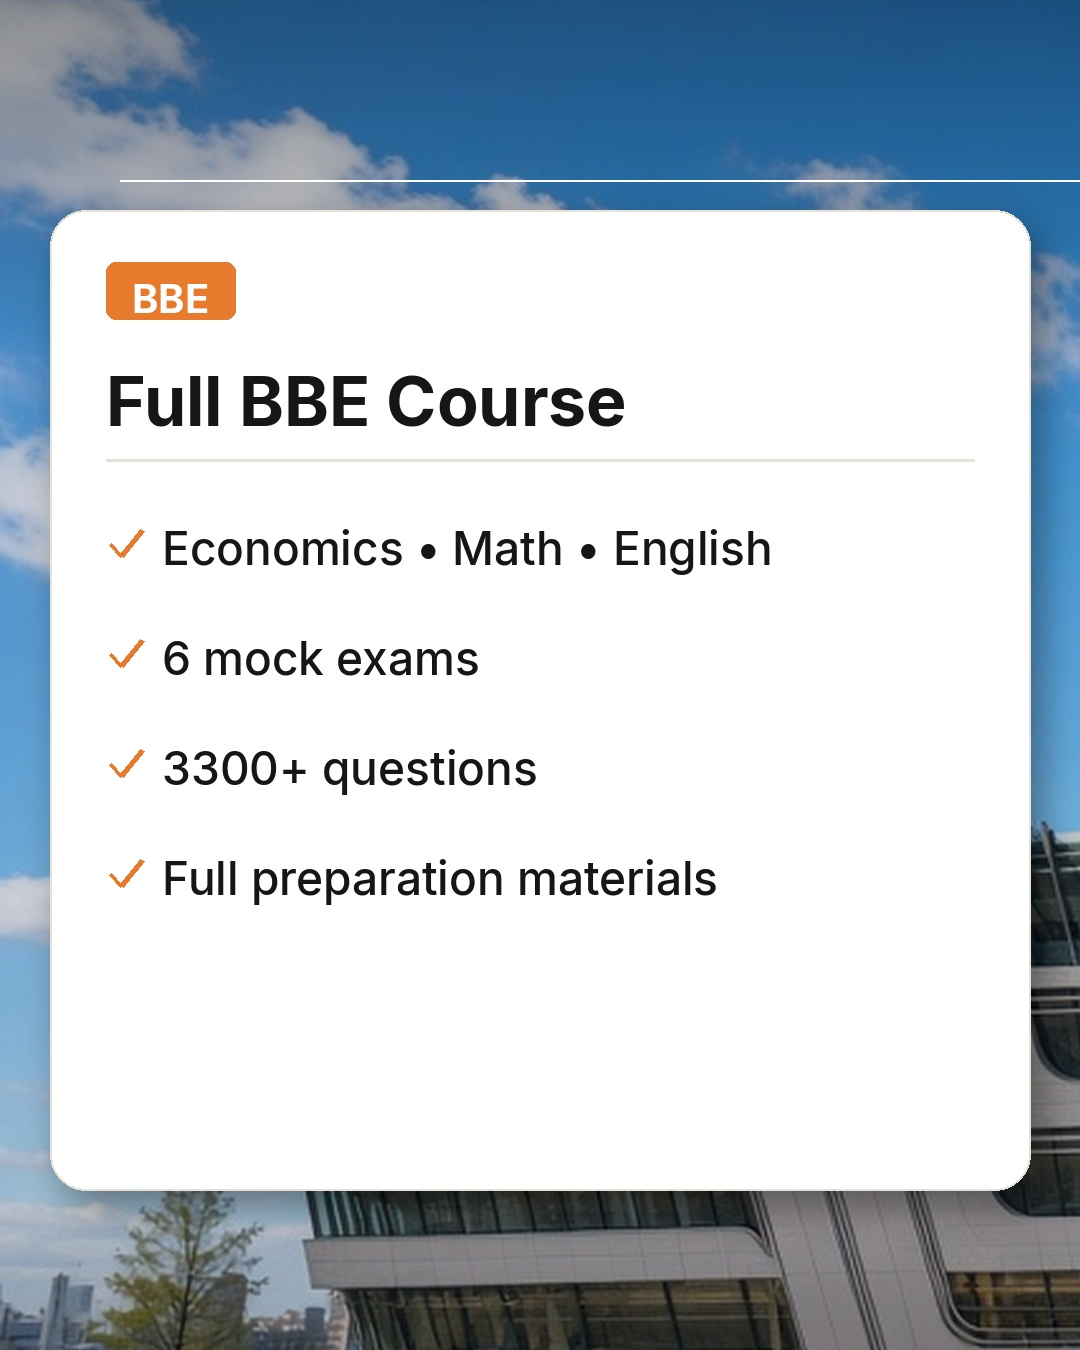
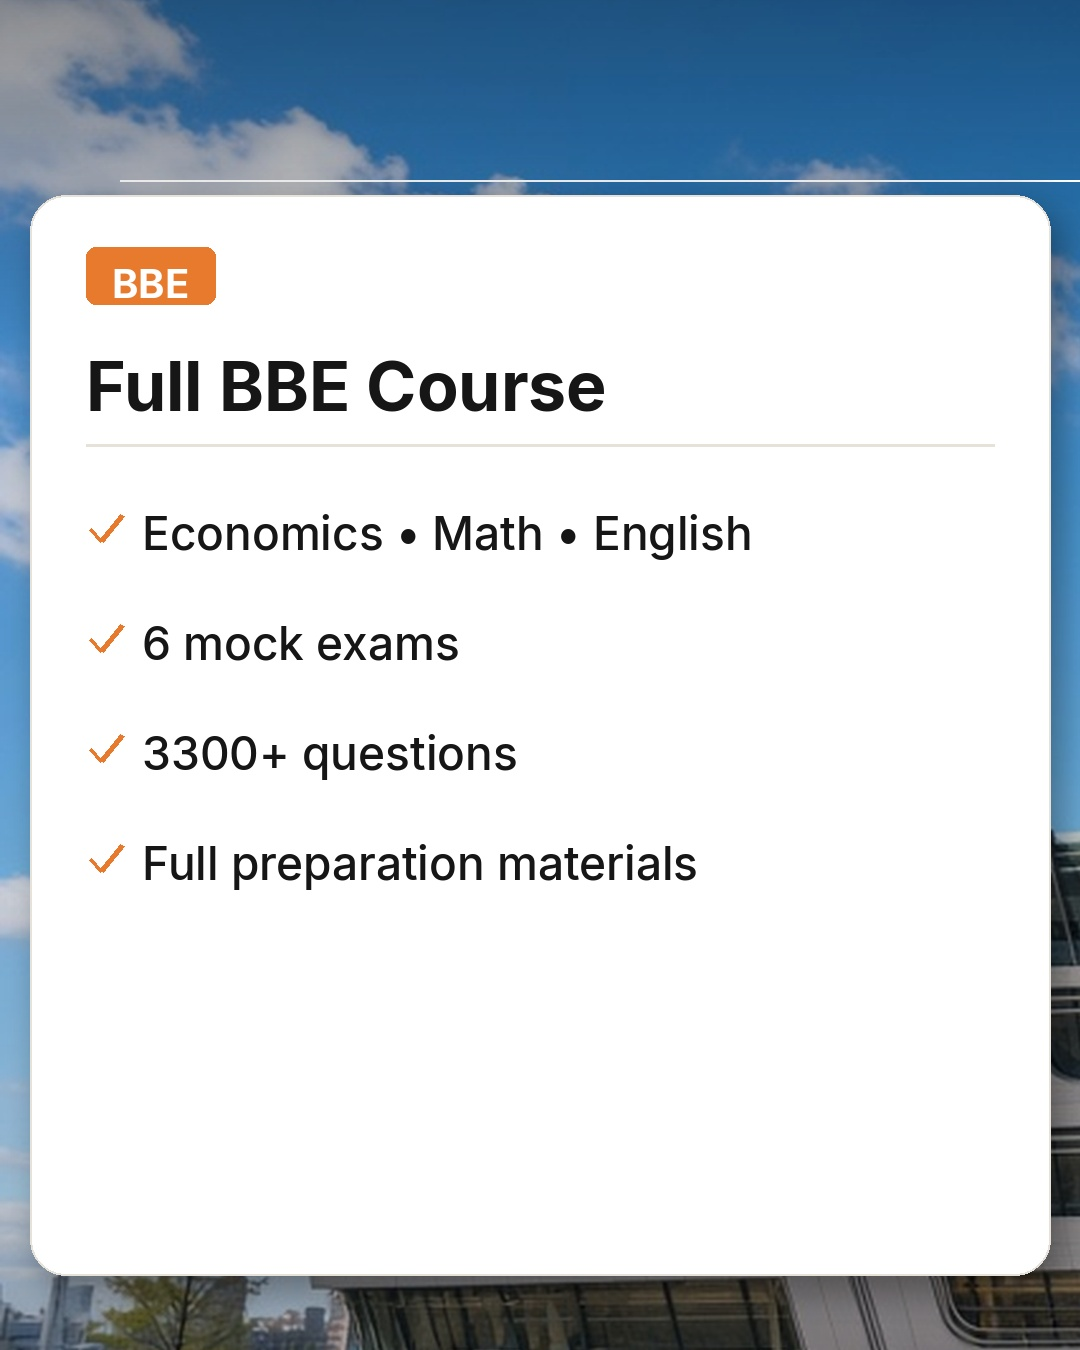
Make course cards fill nearly the full Instagram tile.

diff --git a/scripts/make_instagram_pinned_banner.py b/scripts/make_instagram_pinned_banner.py
@@ -217,29 +217,31 @@ def draw_card(
     canvas.alpha_composite(layer)
     draw = ImageDraw.Draw(canvas)
 
-    pad = 56
-    tag_f = font("Inter-Bold.ttf", 40)
+    pad = 64
+    tag_f = font("Inter-Bold.ttf", 42)
     tw, th = text_size(draw, tag, tag_f)
-    pad_x, pad_y = 26, 14
+    pad_x, pad_y = 28, 14
     tag_w, tag_h = tw + pad_x * 2, th + pad_y * 2
-    tag_x, tag_y = left + pad, top + 52
+    tag_x, tag_y = left + pad, top + 64
     draw.rounded_rectangle([tag_x, tag_y, tag_x + tag_w, tag_y + tag_h], radius=10, fill=accent)
     draw.text((tag_x + pad_x, tag_y + pad_y - 2), tag, font=tag_f, fill=WHITE)
 
-    title_f = font("Inter-Bold.ttf", 68)
-    draw.text((left + pad, top + 150), title, font=title_f, fill=title_c)
+    title_f = font("Inter-Bold.ttf", 72)
+    draw.text((left + pad, top + 170), title, font=title_f, fill=title_c)
     draw.line(
-        [(left + pad, top + 250), (left + width - pad, top + 250)],
+        [(left + pad, top + 280), (left + width - pad, top + 280)],
         fill=border_c,
         width=3,
     )
 
-    bullet_f = font("Inter-Medium.ttf", 46)
-    y = top + 310
+    bullet_f = font("Inter-Medium.ttf", 48)
+    # Spread bullets through the tall card so the box feels full
+    y = top + 350
+    row = 125
     for bullet in bullets:
-        draw_check(draw, left + pad + 4, y + 10, accent)
-        draw.text((left + pad + 56, y), bullet, font=bullet_f, fill=body_c)
-        y += 110
+        draw_check(draw, left + pad + 4, y + 12, accent)
+        draw.text((left + pad + 60, y), bullet, font=bullet_f, fill=body_c)
+        y += row
 
 
 def build_banner(bg: Image.Image, *, glass_cards: bool = False) -> Image.Image:
@@ -261,26 +263,26 @@ def build_banner(bg: Image.Image, *, glass_cards: bool = False) -> Image.Image:
 
     draw_logo(draw, W - 40 - 88, 36, size=88, light=True)
 
-    # Large cards — main focus (~91% of each tile width, ~73% height)
+    # Large cards — main focus (~95% tile width, ~80% height)
     for i, card in enumerate(CARDS):
         cx = i * TILE_W + TILE_W // 2
         draw_card(
             canvas,
             cx=cx,
-            top=210,
+            top=195,
             tag=card["tag"],
             accent=card["accent"],
             title=card["title"],
             bullets=card["bullets"],
             glass=glass_cards,
-            width=980,
-            height=980,
+            width=1020,
+            height=1080,
         )
 
-    url_f = font("Inter-Medium.ttf", 30)
+    url_f = font("Inter-Medium.ttf", 28)
     url = "bbe-school.com"
     uw, _ = text_size(draw, url, url_f)
-    draw.text(((W - uw) / 2, H - 52), url, font=url_f, fill=MUTED_LT)
+    draw.text(((W - uw) / 2, H - 40), url, font=url_f, fill=MUTED_LT)
     return canvas.convert("RGB")
 
 
